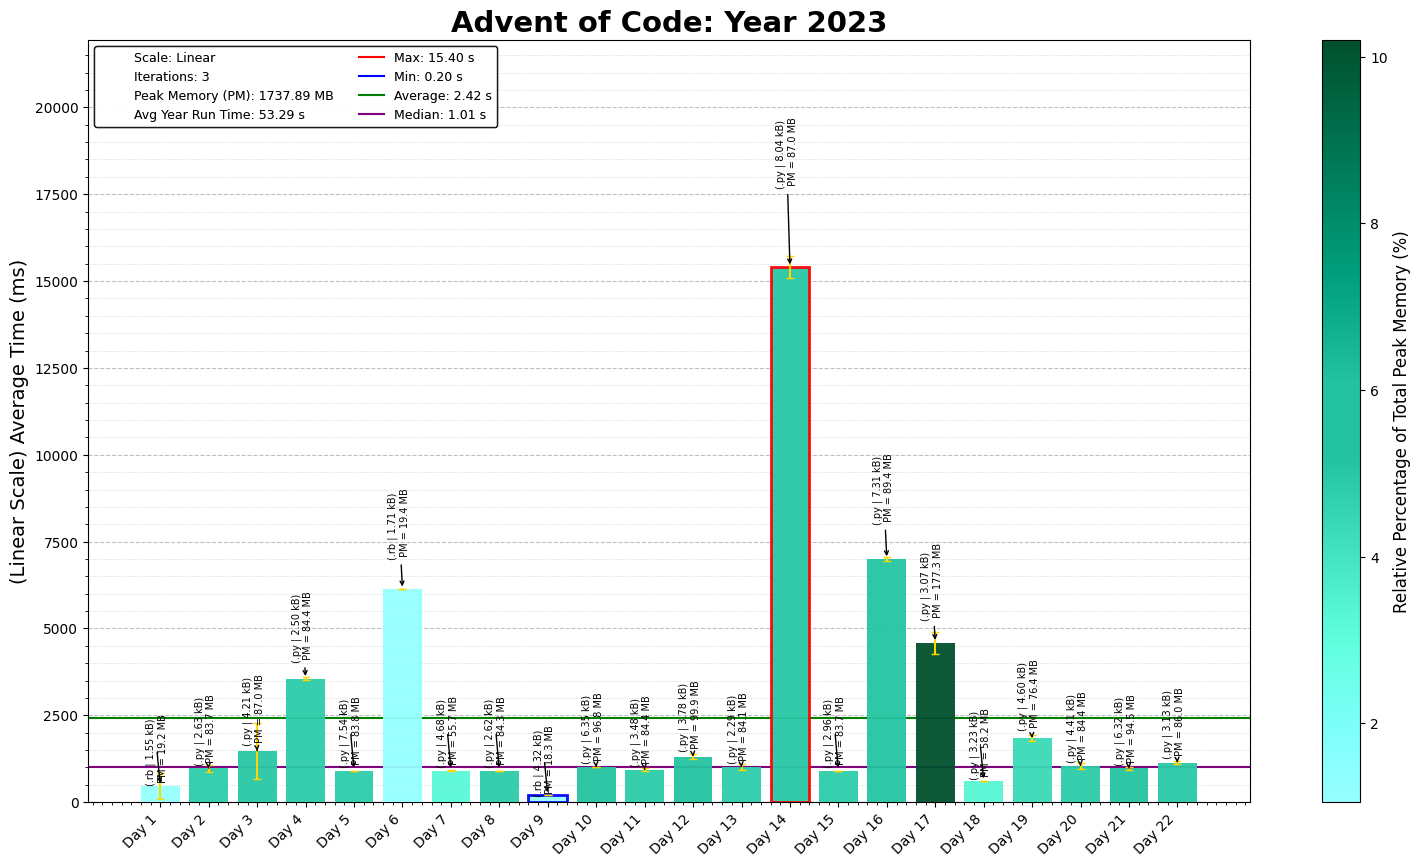
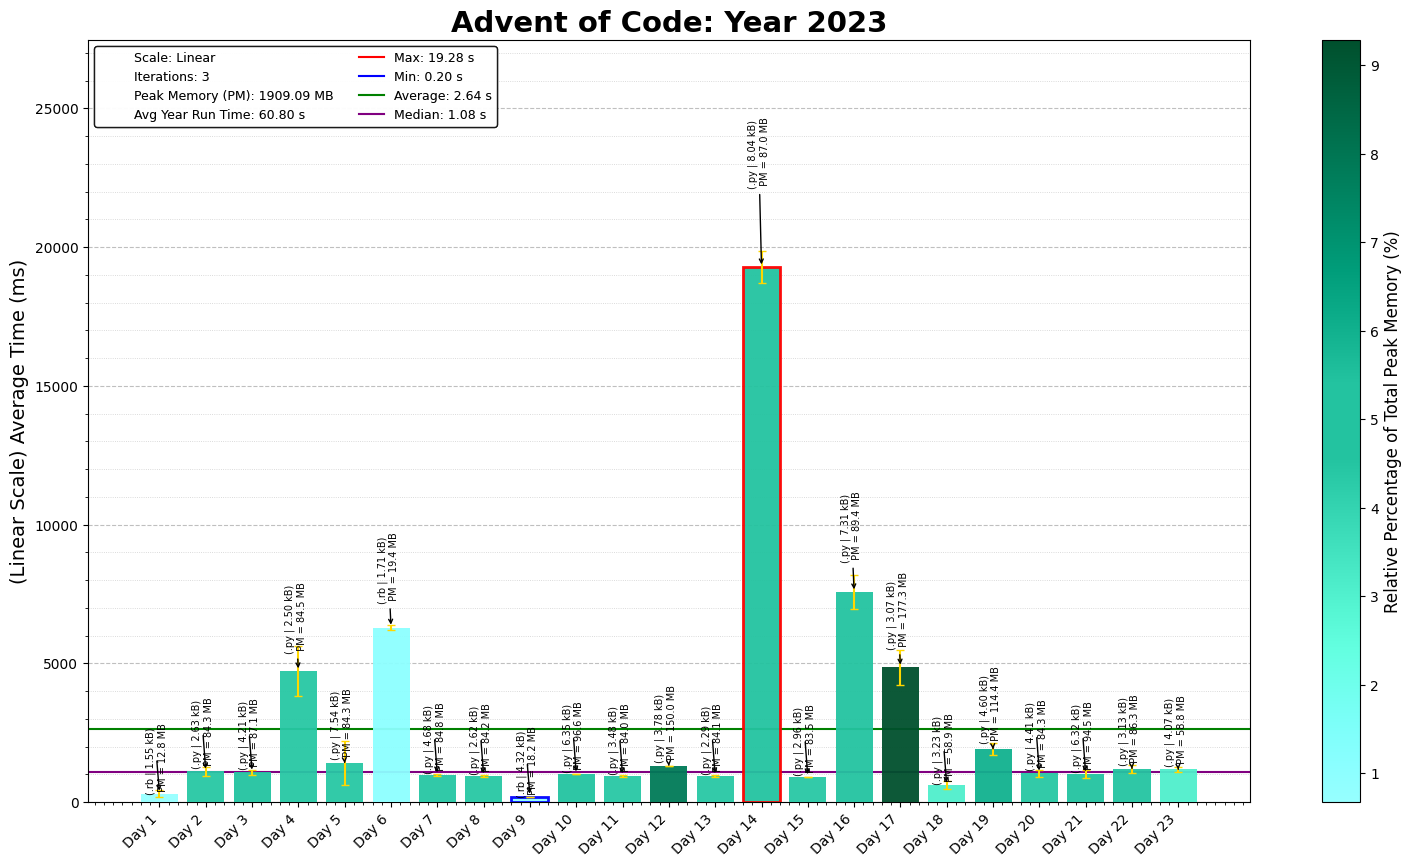
2023 Day 23 P1

diff --git a/2023/23/2023Day23.py b/2023/23/2023Day23.py
@@ -1,0 +1,113 @@
+"""Advent of Code - Day 23, Year 2023
+Solution Started: Jan 13, 2025
+Puzzle Link: https://adventofcode.com/2023/day/23
+Solution by: abbasmoosajee07
+Brief: [Find Longest Path]
+"""
+
+#!/usr/bin/env python3
+
+import os, re, copy, sys, time
+import numpy as np
+import pandas as pd
+import matplotlib.pyplot as plt
+sys.setrecursionlimit(10**7)
+start_time = time.time()
+
+# Load the input data from the specified file path
+D23_file = "Day23_input.txt"
+D23_file_path = os.path.join(os.path.dirname(os.path.abspath(__file__)), D23_file)
+
+# Read and sort input data into a grid
+with open(D23_file_path) as file:
+    input_data = file.read().strip().split('\n')
+
+def parse_grid(init_grid: list) -> dict:
+    grid_dict = {}
+    start, goal = None, None
+    # Iterate through the grid to update each tile to dict and update bounds
+    for row_no, row in enumerate(init_grid):
+        for col_no, tile in enumerate(row):
+            grid_dict[(row_no, col_no)] = tile
+            if tile == '.':
+                goal = (row_no, col_no)
+                if start is None:
+                    start = (row_no, col_no)
+    return grid_dict, start, goal
+
+def print_grid(grid_dict: dict, movements: dict):
+    min_row, min_col = min(grid_dict.keys())
+    max_row, max_col = max(grid_dict.keys())
+
+    grid_list = []
+
+    for row_no in range(min_row, max_row + 1):
+        row = ''
+        for col_no in range(min_col, max_col + 1):
+            pos = (row_no, col_no)
+
+            if pos in movements:
+                row += movements[pos]
+            elif pos in grid_dict.keys():
+                row += grid_dict[pos]
+            else:
+                row += '.'
+
+        grid_list.append(row)
+
+    # Print grid
+    print("\nCurrent Grid:")
+    for row in grid_list:
+        print("".join(row))
+    print()
+
+def find_path_avoid_slopes(grid_dict: dict, start: tuple, goal: tuple) -> dict:
+    def get_neighbors(pos: tuple):
+        """Generate all valid neighboring positions and their directions."""
+        row, col = pos
+        for str_dir, (dr, dc) in DIRECTIONS.items():
+            new_row, new_col = row + dr, col + dc
+            new_pos = (new_row, new_col)
+            if new_pos in grid_dict and grid_dict[new_pos] != '#':  # Ensure within bounds and not a wall
+                yield new_pos, str_dir
+
+    def dfs(current_pos, current_path):
+        """Depth-first search to explore all paths."""
+        nonlocal longest_path
+        if current_pos == goal:
+            # Update longest path if current path is longer
+            if len(current_path) > len(longest_path):
+                longest_path = current_path.copy()
+            return
+
+        # Check current position for slope logic
+        if grid_dict[current_pos] in DIRECTIONS:
+            slope_dir = grid_dict[current_pos]
+            slope_dr, slope_dc = DIRECTIONS[slope_dir]
+            slope_row, slope_col = current_pos[0] + slope_dr, current_pos[1] + slope_dc
+            slope_pos = (slope_row, slope_col)
+            if slope_pos not in current_path and slope_pos in grid_dict and grid_dict[slope_pos] != '#':
+                current_path[slope_pos] = 'O'
+                dfs(slope_pos, current_path)
+                del current_path[slope_pos]  # Backtrack
+            return  # No need to check normal neighbors if on a slope
+
+        # Explore all normal neighbors
+        for new_pos, str_dir in get_neighbors(current_pos):
+            if new_pos not in current_path:  # Only visit unvisited positions
+                current_path[new_pos] = 'O'
+                dfs(new_pos, current_path)
+                del current_path[new_pos]  # Backtrack
+
+    # Define movement directions
+    DIRECTIONS = {'^': (-1, 0), '>': (0, 1), 'v': (1, 0), '<': (0, -1)}
+    longest_path = {}  # Store the longest path
+    dfs(start, {start: 'S'})  # Start DFS with the initial position
+    return longest_path
+
+grid_dict, start, goal = parse_grid(input_data)
+
+path_p1 = find_path_avoid_slopes(grid_dict, start, goal)
+print('Path 1:', len(path_p1) - 1)
+
+# print(f"Execution Time = {time.time() - start_time:.5f}")
